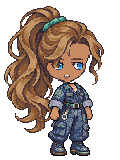
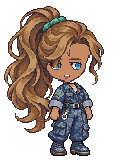
fix: verify rendered iris pixels and keep large eyes inside faces

Changed region(s): [[0.575, 0.3438, 0.7, 0.4375], [0.4, 0.3438, 0.525, 0.4375]]

diff --git a/src/game/spriteCharacter.ts b/src/game/spriteCharacter.ts
@@ -103,6 +103,17 @@ function inkColor(ink: SpriteInk, a: Appearance) {
     0
   );
 }
+function eyeStyleFor(a: Appearance, blink = false) {
+  return blink || a.expression === 1
+    ? 7
+    : a.expression === 2
+      ? 5
+      : a.expression === 3
+        ? 8
+        : a.expression === 4
+          ? 3
+          : (a.sprite?.eyeStyle ?? defaultSprite.eyeStyle);
+}
 export const SPRITE_RIG = rig;
 /** PNG/indexed-layer compositor. No ellipse, polygon or vector art is drawn at runtime. */
 export function spriteCharacterCanvas(
@@ -199,16 +210,7 @@ export function spriteCharacterCanvas(
     stamp('hair-back-' + s.hairStyle, Math.round(60 - rear.width / 2), hy + bob);
   } else {
     stamp('face-' + s.faceShape, fx, fy + bob);
-    const eyeStyle =
-      blink || a.expression === 1
-        ? 7
-        : a.expression === 2
-          ? 5
-          : a.expression === 3
-            ? 8
-            : a.expression === 4
-              ? 3
-              : s.eyeStyle;
+    const eyeStyle = eyeStyleFor(a, blink);
     const eyes = SPRITE_ASSETS['eyes-' + eyeStyle],
       scale = [0.9, 1, 1.1][s.eyeSize];
     const eyeY = rig.faces[s.faceShape].eyeY + bob + (a.expression === 2 ? -1 : 0);
@@ -299,10 +301,10 @@ export function spriteLayerImages(input: Appearance) {
     return { label, key, x, y, width: asset.width, height: asset.height, src: canvas.toDataURL() };
   });
 }
-export function spriteDiagnostics(input: Appearance) {
+export function spriteDiagnostics(input: Appearance, direction: Direction = 'down') {
   const a = upgradeSprite(input),
     s = a.sprite,
-    canvas = spriteCharacterCanvas(a),
+    canvas = spriteCharacterCanvas(a, direction),
     image = canvas.getContext('2d')!.getImageData(0, 0, W, H),
     out = new Uint32Array(image.data.buffer);
   const colors = new Set<number>();
@@ -318,40 +320,59 @@ export function spriteDiagnostics(input: Appearance) {
         if (x === 0 || y === 0 || x === W - 1 || y === H - 1) edgePixels++;
       }
     }
-  const eye = SPRITE_ASSETS['eyes-' + s.eyeStyle],
-    data = indexes(eye),
-    split = eye.splitX ?? eye.width / 2,
-    scale = [0.9, 1, 1.1][s.eyeSize];
-  const eyeX = rig.eyeX - Math.round((Math.round(eye.width * scale) - rig.eyePairWidth) / 2),
-    eyeY = rig.faces[s.faceShape].eyeY;
+  const style = eyeStyleFor(a),
+    eye = SPRITE_ASSETS['eyes-' + style],
+    scale = [0.9, 1, 1.1][s.eyeSize],
+    sideView = direction === 'left' || direction === 'right';
+  const eyeX =
+      rig.eyeX +
+      (sideView ? 1 : 0) -
+      Math.round((Math.round(eye.width * scale) - rig.eyePairWidth) / 2),
+    eyeY = rig.faces[s.faceShape].eyeY + (a.expression === 2 ? -1 : 0);
   const total = [0, 0],
-    visible = [0, 0];
+    visible = [0, 0],
+    bottom = [0, 0];
   let irisOutsideFace = 0;
-  const bottom = [0, 0];
   const face = SPRITE_ASSETS['face-' + s.faceShape],
     facePixels = indexes(face),
     fx = rig.faces[s.faceShape].x,
     fy = rig.chinY - face.height;
-  for (let y = 0; y < eye.height; y++)
-    for (let x = 0; x < eye.width; x++) {
-      const index = data[y * eye.width + x],
-        side = x < split ? 0 : 1;
-      if (!index) continue;
-      bottom[side] = Math.max(bottom[side], y);
-      if (eye.palette[index].material !== 'eyes') continue;
-      const dx =
-          eyeX + Math.round(x * scale) + (side ? 1 : -1) * (s.eyeSpacing - 1) * rig.eyeGapStep,
-        dy = eyeY + Math.round(y * scale);
-      total[side]++;
-      if (out[dy * W + dx] === inkColor(eye.palette[index], a)) visible[side]++;
-      if (
-        dx < fx ||
-        dy < fy ||
-        dx >= fx + face.width ||
-        dy >= fy + face.height ||
-        !facePixels[(dy - fy) * face.width + dx - fx]
-      )
-        irisOutsideFace++;
+  if (direction !== 'up')
+    for (let side = 0; side < 2; side++) {
+      const asset = SPRITE_ASSETS['eyes-' + (side && a.expression === 5 ? 7 : style)],
+        data = indexes(asset),
+        width = Math.round(asset.width * scale),
+        height = Math.round(asset.height * scale),
+        split = Math.round((asset.splitX ?? asset.width / 2) * scale),
+        gap = (side ? 1 : -1) * (s.eyeSpacing - 1) * rig.eyeGapStep,
+        closedOffset = asset === SPRITE_ASSETS['eyes-7'] ? 4 : 0;
+      // Inspect destination pixels with the renderer's inverse nearest-neighbor sampling.
+      // Forward rounding of source coordinates misses pixels at noninteger eye scales.
+      for (let y = 0; y < height; y++)
+        for (let x = 0; x < width; x++) {
+          if ((side === 0 && x >= split) || (side === 1 && x < split)) continue;
+          const index =
+            data[
+              Math.min(asset.height - 1, Math.floor(y / scale)) * asset.width +
+                Math.min(asset.width - 1, Math.floor(x / scale))
+            ];
+          if (!index) continue;
+          bottom[side] = Math.max(bottom[side], y + closedOffset);
+          if (asset.palette[index].material !== 'eyes') continue;
+          const dx = eyeX + gap + x,
+            dy = eyeY + closedOffset + y,
+            visibleX = direction === 'left' ? W - 1 - dx : dx;
+          total[side]++;
+          if (out[dy * W + visibleX] === inkColor(asset.palette[index], a)) visible[side]++;
+          if (
+            dx < fx ||
+            dy < fy ||
+            dx >= fx + face.width ||
+            dy >= fy + face.height ||
+            !facePixels[(dy - fy) * face.width + dx - fx]
+          )
+            irisOutsideFace++;
+        }
     }
   return {
     edgePixels,

diff --git a/tests/face-proportions.spec.ts b/tests/face-proportions.spec.ts
@@ -9,24 +9,79 @@ test('all face/eye/size/spacing choices fit and small mouths remain visible acro
     const cp = '/src/game/spriteCharacter.ts',
       sp = '/shared/sprite-appearance.ts',
       tp = '/shared/types.ts',
-      ap = '/shared/appearance.ts';
+      ap = '/shared/appearance.ts',
+      bp = '/src/game/sprite-assets/generated.ts';
     const { spriteDiagnostics, spriteCharacterCanvas, SPRITE_RIG } = await import(cp),
       { upgradeSprite } = await import(sp),
       { defaultAppearance } = await import(tp),
-      { appearanceColors } = await import(ap);
-    const bad = [];
+      { appearanceColors } = await import(ap),
+      { SPRITE_ASSETS } = await import(bp);
+    const bad = [],
+      actualPixelBad = [];
     let cases = 0;
-    for (let faceShape = 0; faceShape < 4; faceShape++)
+    const decode = (asset: any) => {
+      const b = atob(asset.rle),
+        data: number[] = [];
+      for (let i = 0; i < b.length; i += 3)
+        for (let n = 0; n < b.charCodeAt(i) + (b.charCodeAt(i + 1) << 8); n++)
+          data.push(b.charCodeAt(i + 2));
+      return data;
+    };
+    for (let faceShape = 0; faceShape < 4; faceShape++) {
+      const face = SPRITE_ASSETS['face-' + faceShape],
+        mask = decode(face),
+        fx = SPRITE_RIG.faces[faceShape].x,
+        fy = SPRITE_RIG.chinY - face.height;
       for (let eyeStyle = 0; eyeStyle < 9; eyeStyle++)
         for (let eyeSize = 0; eyeSize < 3; eyeSize++)
-          for (let eyeSpacing = 0; eyeSpacing < 3; eyeSpacing++) {
-            const a = upgradeSprite(defaultAppearance);
-            a.sprite = { ...a.sprite, headwear: 'none', faceShape, eyeStyle, eyeSize, eyeSpacing };
-            const d = spriteDiagnostics(a);
-            cases++;
-            if (d.irisOutsideFace || d.edgePixels || d.partialAlpha)
-              bad.push({ faceShape, eyeStyle, eyeSize, eyeSpacing, ...d });
-          }
+          for (let eyeSpacing = 0; eyeSpacing < 3; eyeSpacing++)
+            for (const direction of ['down', 'right']) {
+              const a = upgradeSprite({ ...defaultAppearance, eyes: '#01fe02' });
+              a.sprite = {
+                ...a.sprite,
+                headwear: 'none',
+                faceShape,
+                eyeStyle,
+                eyeSize,
+                eyeSpacing,
+              };
+              const diag = spriteDiagnostics(a, direction),
+                c = spriteCharacterCanvas(a, direction),
+                data = c.getContext('2d')!.getImageData(0, 0, 120, 160).data;
+              cases++;
+              if (diag.irisOutsideFace || diag.edgePixels || diag.partialAlpha)
+                bad.push({ faceShape, eyeStyle, eyeSize, eyeSpacing, direction, ...diag });
+              let outside = 0;
+              // Inspect the actual rendered green iris pixels, independently of eye-coordinate diagnostics.
+              for (let y = 40; y < SPRITE_RIG.chinY; y++)
+                for (let x = 20; x < 110; x++) {
+                  const at = (y * 120 + x) * 4;
+                  if (
+                    !data[at + 3] ||
+                    data[at + 1] < 35 ||
+                    data[at + 1] <= Math.max(data[at], data[at + 2]) * 1.3
+                  )
+                    continue;
+                  if (
+                    x < fx ||
+                    x >= fx + face.width ||
+                    y < fy ||
+                    y >= fy + face.height ||
+                    !mask[(y - fy) * face.width + x - fx]
+                  )
+                    outside++;
+                }
+              if (outside)
+                actualPixelBad.push({
+                  faceShape,
+                  eyeStyle,
+                  eyeSize,
+                  eyeSpacing,
+                  direction,
+                  outside,
+                });
+            }
+    }
     const luminance = (rgb: number[]) =>
       rgb
         .map((n) => {
@@ -49,13 +104,14 @@ test('all face/eye/size/spacing choices fit and small mouths remain visible acro
         }
       return { skin, ratio: Math.max(...ratios) };
     });
-    return { cases, bad, contrast };
+    return { cases, bad, actualPixelBad, contrast };
   });
   mkdirSync('docs/face-proportions/qa', { recursive: true });
   writeFileSync(
     'docs/face-proportions/qa/face-matrix.json',
     JSON.stringify(result, null, 2) + '\n',
   );
+  expect(result.actualPixelBad).toEqual([]);
   expect(result.bad).toEqual([]);
   for (const c of result.contrast) expect(c.ratio, c.skin).toBeGreaterThanOrEqual(2);
 });

diff --git a/FACE_PROPORTIONS_REPORT.md b/FACE_PROPORTIONS_REPORT.md
@@ -13,7 +13,7 @@
 | 눈        | 서로 다른 크기의 눈 둘을 그대로 붙이는 대신 한 눈의 원화를 기준으로 눈 쌍을 재구성. 가까운 눈14px·먼 눈13px, 동일한 높이·시선·조명 적용 |
 | 눈꺼풀    | 원화 위쪽의 두꺼운 눈두덩 부분을 분리해 눈썹과 겹쳐 보이는 층을 줄임. 9개 눈매 ID와 홍채색 선택은 유지                                  |
 | 얼굴형    | 새4개 PNG 윤곽을 적용. 폭64→60px, 부드러운 볼에서 작은 턱으로 이어지는 윤곽. 턱 기준86→83px                                             |
-| 배치      | 눈 기준61/62px·입75px로 함께 정렬. 눈 간격은 한 단계당 양쪽 각1px로 제한해 과도한 벌어짐 방지                                           |
+| 배치      | 눈 쌍 시작48px·높이61/62px·입75px로 함께 정렬. 눈 간격은 한 단계당 양쪽 각1px로 제한해 과도한 벌어짐 방지                               |
 | 입        | 최대8px였던 입을4~6px로 정리. 작은 미소는5×2px의 연결된 모양이며, 피부 명도에 맞는 두 입 색 중 읽기 좋은 색을 선택                      |
 | 피부      | 새 얼굴 베이스에는 홍조/잡티를 넣지 않음. 모든 얼굴 픽셀을 피부 재질로 분류해 따뜻한 테두리 색이 붉은 점으로 바뀌지 않도록 처리         |
 | 눈썹·안경 | 눈썹도 같은 원화로 쌍의 크기/높이를 맞추고2~3px 높이로 정리. 기존 안경 PNG는 유지하고 새 눈 위치에 맞게 앵커 조정                       |
@@ -26,17 +26,18 @@
 2. 첫 시안은 눈의 크기를 맞췄지만 둥근 테두리가 안경알처럼 보여 채택하지 않았습니다. `after/cycle-1.png`, `source/rejected-single-eyes.png`는 **미채택 시안**입니다.
 3. 부드러운 원화의 눈매를 살려 쌍을 구성하고, 두꺼운 윗눈꺼풀 층과 눈썹의 중복 인상을 줄였습니다. `after/cycle-2.png`, `after/cycle-3.png`, `after/cycle-4-comparison.png`에 중간 검토를 남겼습니다.
 4. 큰 눈/넓은 간격 조합에서 홍채가 얼굴을 벗어나는 회귀를 발견해 간격 범위를 조정했습니다. 피부 `#9b674b`에서 작은 입 대비가1.37에 그치는 실패도 먼저 재현한 뒤 색 선택을 고쳤습니다.
-5. 원본·얼굴2배·교실 표시 크기를 같은 페이지에서 비교했습니다. 최종 결과는 `comparison.png`, `after/faces-eight.png`이며, 생성 원화 자체를 최종 합성 화면으로 대신 보고하지 않습니다.
+5. 추가 검토에서 기존 진단의 좌표 반올림이 실제 nearest-neighbor 픽셀 일부를 놓치는 것을 발견했습니다. 정면·옆 방향의 실제 합성 홍채 픽셀로 실패를 먼저 재현하고, 진단도 렌더러와 같은 역방향 샘플링으로 수정했습니다. 눈의 시작점을48px로 옮겨 최대 크기·간격에서도 얼굴 안에 배치했습니다.
+6. 원본·얼굴2배·교실 표시 크기를 같은 페이지에서 비교했습니다. 최종 결과는 `comparison.png`, `after/faces-eight.png`이며, 생성 원화 자체를 최종 합성 화면으로 대신 보고하지 않습니다.
 
 새 원화는 이미지 생성 도구로 제작·편집했습니다. 실제 게임 출력은 독립된 PNG를 컴파일한 팔레트/RLE 합성입니다. 얼굴·눈의 모양을 도형으로 임시 대체하지 않았습니다. 미적 완성도99%나 모든 사용자 취향에 대한 합격을 선언하지 않습니다.
 
 ## 검증
 
 - 새 유닛2개: 원본의 과도한 먼 눈 폭을 재현하고 새9종의 폭 비율·높이·시선을 검사, 피부 재질/턱선/작은 입·82개 기존 PNG 보존 검사.
-- 새 브라우저2개: 얼굴4×눈매9×크기3×간격3=**324조합**에서 홍채 이탈/경계/부분 투명도0, 피부8종의 작은 입 대비 최소**2.62** 확인. 이는 얼굴 요소 가독성 검사이며 WCAG 텍스트 적합성 판정은 아닙니다.
+- 새 브라우저2개: 얼굴4×눈매9×크기3×간격3×방향2=**648조합**에서 홍채 이탈/경계/부분 투명도0, 피부8종의 작은 입 대비 최소**2.62** 확인. 이는 얼굴 요소 가독성 검사이며 WCAG 텍스트 적합성 판정은 아닙니다.
 - 새 고해상도 원화가 JS 가변 인수 한도를 넘는 컴파일 오류를 재현했고, 연결 성분을 순회 복사하도록 수정해 실제 아틀라스4개 추출을 검사했습니다.
-- 기존 캐릭터 브라우저9개까지 포함한 집중 검사 **11개 통과**, 전체 유닛/API **155개 통과**, TypeScript/운영 빌드 통과.
-- 전체 브라우저 **73개**와 Docker HTTPS **3개**도 통과해 로컬 합계는 **기존227 + 신규4 =231개 통과**입니다. GitHub CI와 실제 배포는 완료를 관측한 뒤 아래에 별도로 확정합니다.
+- 초기 전체 실행은 유닛/API155개·브라우저73개·Docker HTTPS3개 모두 통과했습니다. 마지막 픽셀 진단 보강 후에는 강화한2개 검사를 통과했고, 최종 전체 회귀 검사를 다시 실행하고 있습니다.
+- 회귀 검사 대상은 **기존227 + 신규4 =231개**입니다. 최종 코드의 로컬 결과·GitHub CI·실제 배포는 완료를 관측한 뒤 아래에 별도로 확정합니다.
 
 5개 해상도 실제 교실/꾸미기 화면은 `docs/face-proportions/product/`에 저장합니다. 갤러리/기하 검증과 별도로 수작업으로 얼굴을 확대해 평가했습니다. 자동 검사만으로 귀여움이나 자연스러움을 보장하지 않습니다.
 
